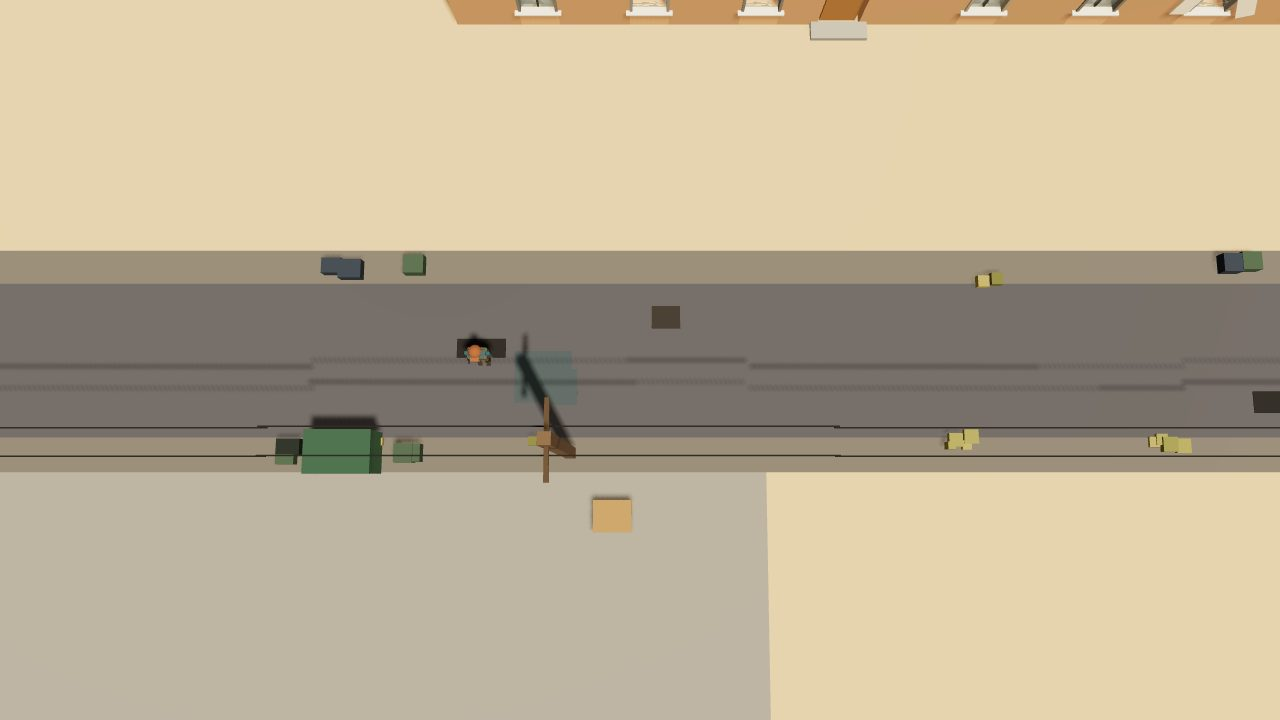
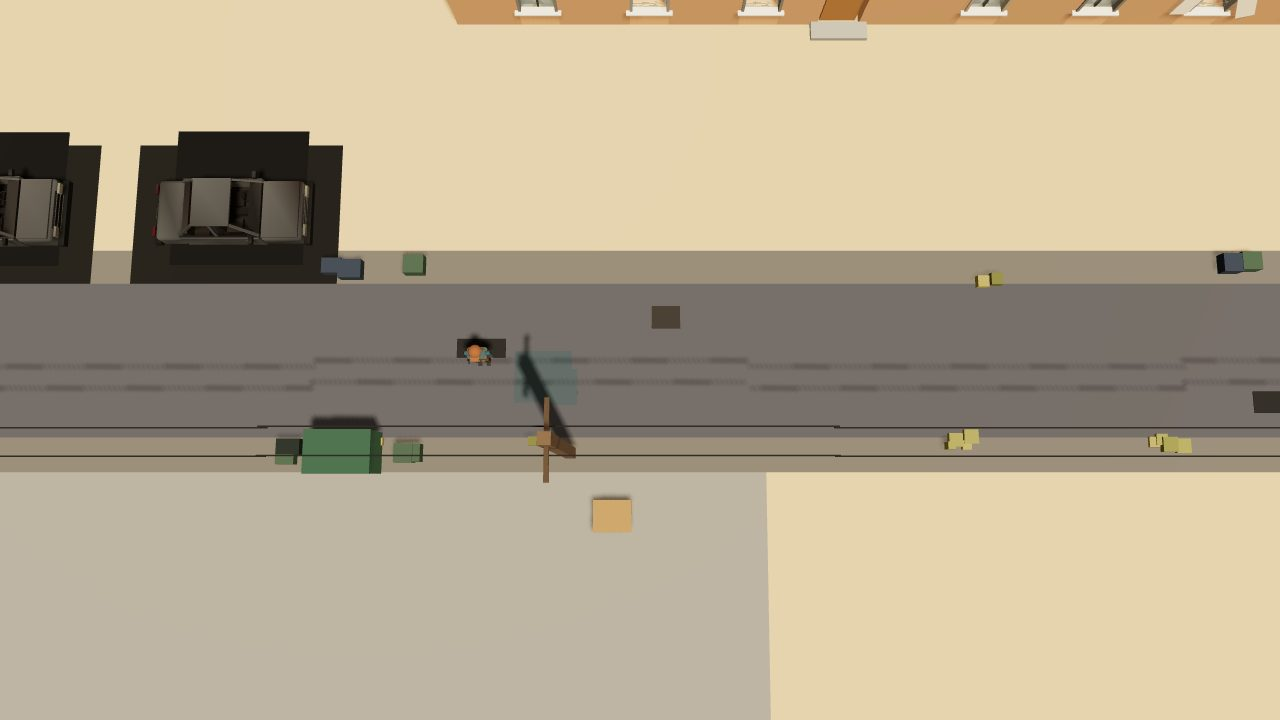
fix(back-lots2): wreck look - van roofs kept, smooth rust, real paint colours, burned reads charred, ragged scorch over lot ground; batch re-uploads per new body; before/after renders

Changed region(s): [[0.0, 0.1833, 0.2812, 0.3972]]

diff --git a/web/src/world/wreckbody.js b/web/src/world/wreckbody.js
@@ -10,6 +10,7 @@
 //   scorch    a burned patch on the ground under a burned-out car
 // Returns a non-indexed BufferGeometry with position, normal and color only (one layout for every batch entry).
 import * as THREE from 'three';
+import { mergeGeometries } from 'three/addons/utils/BufferGeometryUtils.js';
 import { buildBody, PART } from '../systems/vehiclebodies.js';
 
 export const WRECK_BASE = '#b8b0a0';
@@ -23,7 +24,8 @@ const cell = (x, y, z, s, k) => {
 };
 
 export function deadBody(spec, type, S) {
-  const src = buildBody(spec, type, WRECK_BASE);
+  const built = {}, body = buildBody(spec, type, WRECK_BASE, built);
+  const src = built.roof ? mergeGeometries([body, built.roof]) : body; // a van's roof is built apart (its cargo deck): a dead one keeps it
   const P = src.attributes.position.array, N = src.attributes.normal.array, C = src.attributes.color.array, part = src.attributes.part.array;
   const base = new THREE.Color(WRECK_BASE), rust = new THREE.Color(S.rustCol), char = new THREE.Color(S.charCol ?? '#1b1917'), ash = new THREE.Color(S.ash ?? '#5e5a54');
   const drop = new Set([...(S.tyres !== 'flat' ? WHEELS : []), ...(S.doors ? [] : DOORS), ...(S.glass ? [] : [PART.glass])]);
@@ -68,7 +70,7 @@ export function deadBody(spec, type, S) {
       else v.multiplyScalar(0.82).lerp(rust, S.rust * 0.35 * cell(vx, vy, vz, 0.6, 5)); // chrome and trim gone dull
       if (S.char) {
         v.lerp(char, S.char * (0.85 + 0.15 * cell(vx, vy, vz, 0.5, 7)));
-        if (up > 0.6) v.lerp(ash, 0.55 * Math.max(0, Math.min(1, (0.6 - cell(vx, vy, vz, 0.5, 8)) / 0.15)));
+        if (up > 0.6) v.lerp(ash, 0.4 * Math.max(0, Math.min(1, (0.45 - cell(vx, vy, vz, 0.45, 8)) / 0.15))); // ash in patches on the tops
         else if (skin) { const r2 = cell(vx, vy, vz, 0.4, 9); if (r2 < S.rust) v.lerp(rust, 0.6 * Math.min(1, (S.rust - r2) / 0.1)); }
       }
       pos.push(x, y, z); nor.push(nx, ny, nz); col.push(v.r, v.g, v.b);
@@ -81,7 +83,12 @@ export function deadBody(spec, type, S) {
     for (let i = 0; i < a.length; i += 3) { pos.push(a[i], a[i + 1], a[i + 2]); nor.push(n[i], n[i + 1], n[i + 2]); col.push(cc.r, cc.g, cc.b); }
   };
   if (S.tyres === 'blocks') { const bc = new THREE.Color(S.blockCol); for (const w of wc.values()) { const x = w.x / w.n, z = w.z / w.n; box(x - 0.24, x + 0.24, 0, 0.42, z - 0.22, z + 0.22, bc); } }
-  if (S.scorch) { quad(minX - S.scorch, maxX + S.scorch, minZ - S.scorch * 0.7, maxZ + S.scorch * 0.7, 0.025, new THREE.Color('#171512')); quad(minX - S.scorch * 0.4, maxX + S.scorch * 1.4, minZ + 0.4, maxZ - 0.3, 0.03, new THREE.Color('#0f0e0c')); }
+  if (S.scorch) { // a burned patch, ragged: three offset quads (over a town's lot ground, 0.04 m)
+    const sc = S.scorch, dk = new THREE.Color('#1c1814'), dd = new THREE.Color('#100e0c');
+    quad(minX - sc * 0.6, maxX + sc * 0.3, minZ - sc, maxZ + sc * 0.5, 0.075, dk);
+    quad(minX + 0.2, maxX + sc, minZ - sc * 0.4, maxZ - 0.6, 0.078, dd);
+    quad(minX - sc, maxX - 0.8, minZ + 0.6, maxZ + sc, 0.077, dk);
+  }
   const g = new THREE.BufferGeometry();
   g.setAttribute('position', new THREE.Float32BufferAttribute(pos, 3));
   g.setAttribute('normal', new THREE.Float32BufferAttribute(nor, 3));

diff --git a/web/src/data/wrecks.js b/web/src/data/wrecks.js
@@ -17,7 +17,7 @@ export const WRECK_TYPES = { sedan: 5, pickup: 3, van: 2, interceptor: 1 };
 //   sag       m the body sits lower than whole
 export const WRECK_STATES = {
   rusted:   { name: 'rusted, abandoned', fade: 0.5, rust: 0.38, rustCol: '#6e3c1e', glass: false, tyres: 'flat', doors: true, hood: 0, char: 0, sag: 0.07 },
-  burned:   { name: 'burned out', fade: 1, rust: 0.18, rustCol: '#5a3220', glass: false, tyres: 'gone', doors: true, hood: 0, char: 0.88, ash: '#5e5a54', charCol: '#1b1917', scorch: 1.2, sag: 0.34 },
+  burned:   { name: 'burned out', fade: 1, rust: 0.12, rustCol: '#3a2014', glass: false, tyres: 'gone', doors: true, hood: 0, char: 1, ash: '#26221e', charCol: '#0a0908', scorch: 0.55, sag: 0.34 },
   crushed:  { name: 'crushed flat', fade: 0.55, rust: 0.3, rustCol: '#6e3c1e', glass: false, tyres: 'flat', doors: true, hood: 0, char: 0, sag: 0, squash: 0.46 }, // a show's flattened car (systems/stunts.js)
   stripped: { name: 'stripped, on blocks', fade: 0.35, rust: 0.22, rustCol: '#6e3c1e', glass: true, tyres: 'blocks', doors: false, hood: 1.05, char: 0, sag: 0, blockCol: '#8a847a' },
 };

diff --git a/web/src/systems/wrecks.js b/web/src/systems/wrecks.js
@@ -43,6 +43,9 @@ export class Wrecks {
       const geo = deadBody(spec, VEHICLES[type] ? type : 'sedan', S);
       id = this.mesh.addGeometry(geo);
       geo.dispose();
+      // a body added after the batch's first upload: send the whole buffers again (r170 uploads only the update ranges,
+      // and a range added after the first upload was seen to leave the colours stale); at most one per type x state
+      for (const a of Object.values(this.mesh.geometry.attributes)) { a.clearUpdateRanges(); a.needsUpdate = true; }
       this.geo.set(k, id); this.counts.bodies++;
     }
     return id;
